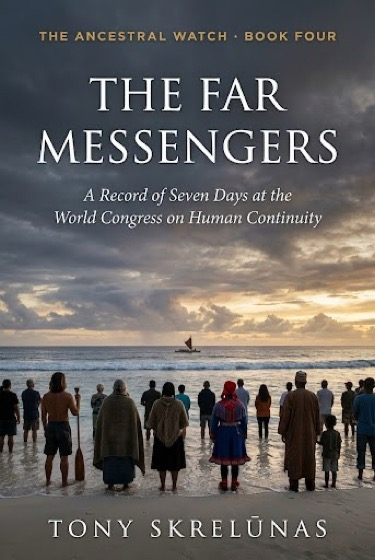
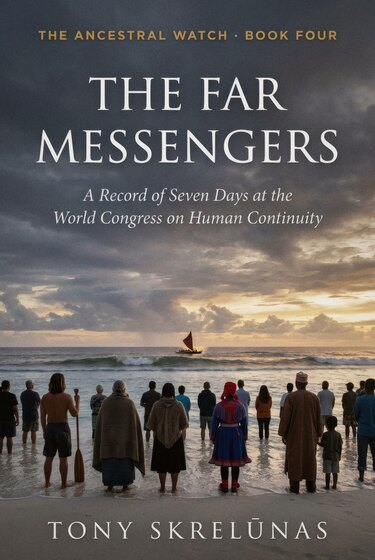
The Far Messengers: the new shoreline cover (Tony 11/11: 'farmesengers cover has been revised'), same file names and sizes; old covers kept in versions/; the Executive Reader's large cover now the new one too; alt text: The Far Messengers is book four

diff --git a/index.html b/index.html
@@ -375,7 +375,7 @@
   </div>
   <div class="shelf">
     <a class="book reveal" href="https://ancestralwatch.com/series/stone-breath/"><img src="/assets/home-v2/img/cover-stone-breath-560.jpg?v=1111" alt="Stone Breath, book one" loading="lazy"><div><h3>Stone Breath</h3><p>A story of remembering, and the breath counted on a river pebble.</p><small>Book one →</small></div></a>
-    <a class="book reveal d1" href="https://ancestralwatch.com/series/the-far-messengers/"><img src="/assets/home-v2/img/cover-the-far-messengers-560.jpg" alt="The Far Messengers, book two" loading="lazy"><div><h3>The Far Messengers</h3><p>Seven days at a world congress, and the disciplines the carriers trained.</p><small>Book two →</small></div></a>
+    <a class="book reveal d1" href="https://ancestralwatch.com/series/the-far-messengers/"><img src="/assets/home-v2/img/cover-the-far-messengers-560.jpg" alt="The Far Messengers, book four" loading="lazy"><div><h3>The Far Messengers</h3><p>Seven days at a world congress, and the disciplines the carriers trained.</p><small>Book two →</small></div></a>
     <a class="book reveal d2" href="https://ancestralwatch.com/series/the-council-fire/"><img src="/assets/home-v2/img/cover-the-council-fire-600.jpg?v=1111" alt="The Council Fire, book three" loading="lazy"><div><h3>The Council Fire</h3><p>The original instructions for the world we rebuild, with a family on its cover.</p><small>Book three →</small></div></a>
   </div>
   <div class="books-pair">

diff --git a/v5/index.html b/v5/index.html
@@ -439,7 +439,7 @@
   </div>
   <div class="shelf">
     <a class="book reveal" href="https://ancestralwatch.com/series/stone-breath/"><img src="/assets/home-v2/img/cover-stone-breath-560.jpg" alt="Stone Breath, book one" loading="lazy"><div><h3>Stone Breath</h3><p>A story of remembering, and the breath counted on a river pebble.</p><small>Book one →</small></div></a>
-    <a class="book reveal d1" href="https://ancestralwatch.com/series/the-far-messengers/"><img src="/assets/home-v2/img/cover-the-far-messengers-560.jpg" alt="The Far Messengers, book two" loading="lazy"><div><h3>The Far Messengers</h3><p>Seven days at a world congress, and the disciplines the carriers trained.</p><small>Book two →</small></div></a>
+    <a class="book reveal d1" href="https://ancestralwatch.com/series/the-far-messengers/"><img src="/assets/home-v2/img/cover-the-far-messengers-560.jpg" alt="The Far Messengers, book four" loading="lazy"><div><h3>The Far Messengers</h3><p>Seven days at a world congress, and the disciplines the carriers trained.</p><small>Book two →</small></div></a>
     <a class="book reveal d2" href="https://ancestralwatch.com/series/the-council-fire/"><img src="/assets/home-v2/img/cover-the-council-fire-600.jpg" alt="The Council Fire, book three" loading="lazy"><div><h3>The Council Fire</h3><p>The original instructions for the world we rebuild, with a family on its cover.</p><small>Book three →</small></div></a>
   </div>
   <div class="books-pair">
